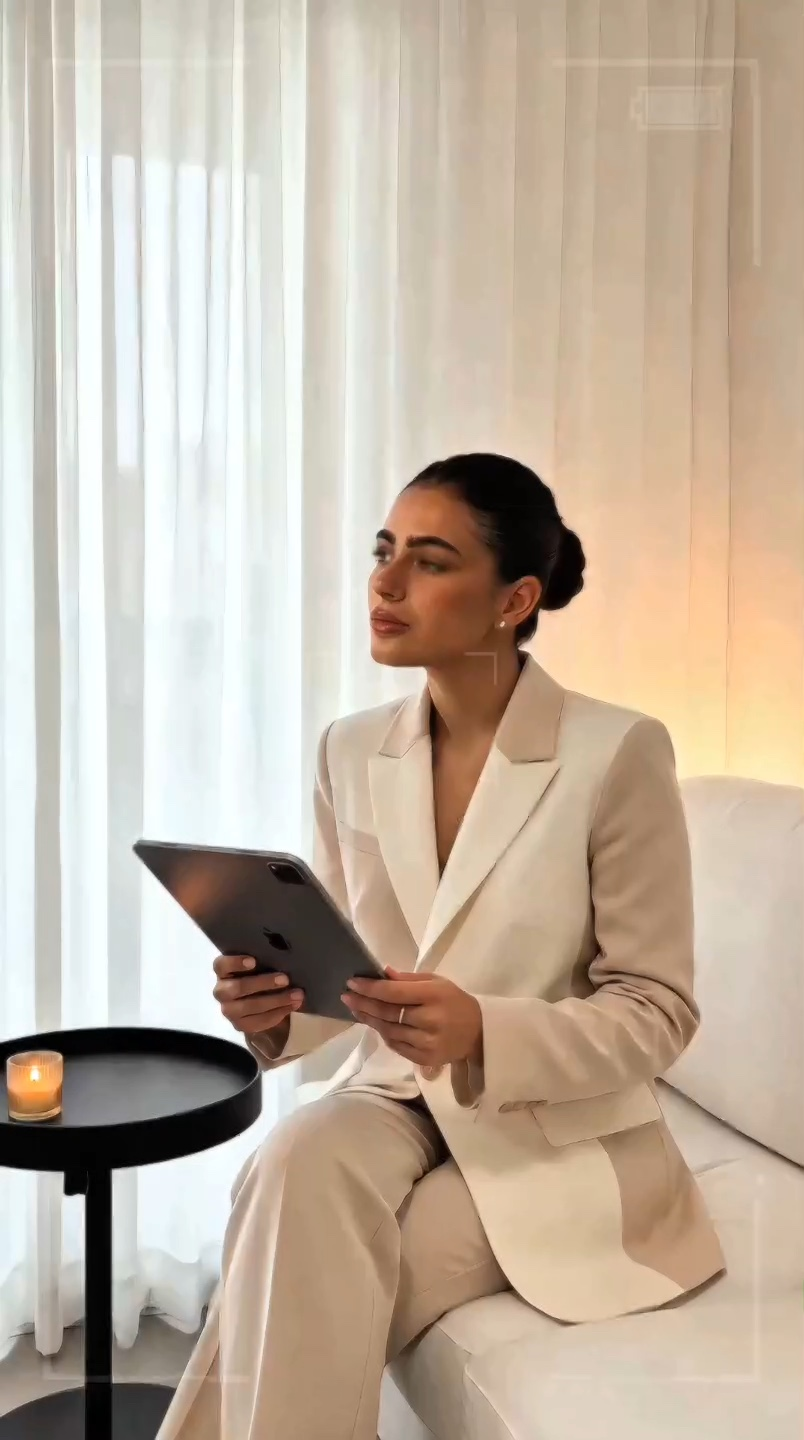
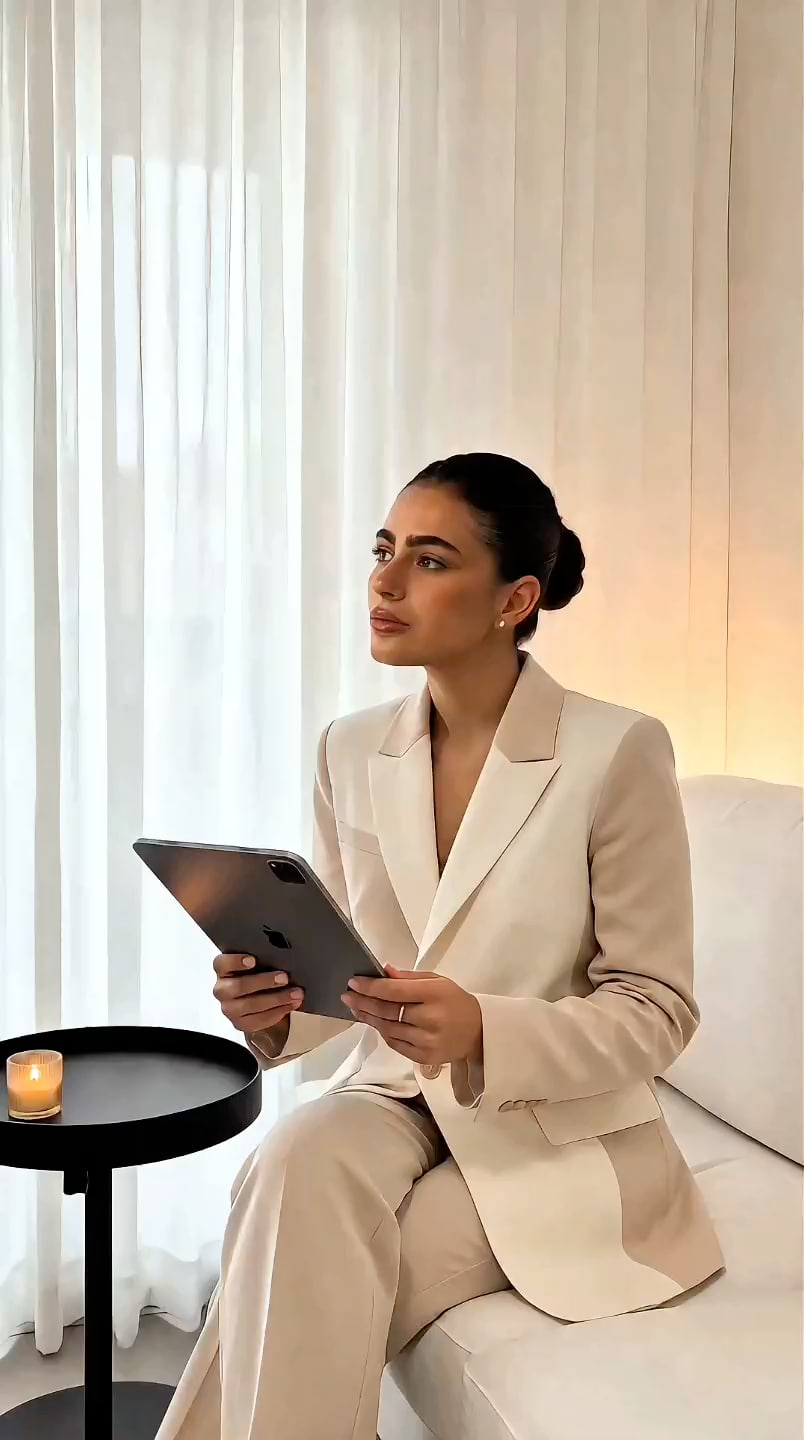
videos: use each clip's own first frame as its poster
Both homepage videos were showing a still that had nothing to do with the
clip behind it. The microblading teaser's poster was a different woman in
a different room; the treatments stage used ND_POSTER, which resolves to
natural-10.webp — a gallery photo from lib/data.ts. Pressing play swapped
the picture for an unrelated one, which is exactly what it looked like.

Each poster is now extracted from its own video at t=0 via
AVAssetImageGenerator (zero seek tolerance, preferred transform applied),
so the still and the first painted frame are the same image and the press
moves nothing. Verified in the browser by drawing poster and decoded
frame into canvases and diffing: teaser 8.9 against frame 0 vs 64.0
against a control frame, natural-design 9.0 vs 88.3, with poster
dimensions matching video dimensions exactly. The residual is the
comparison's own downscale, not the file — measured directly, WebP q80
costs 2.0 and 1.5 mean channel error against the source frame, so the
quality bump to q88 would have bought nothing for +11KB and +17KB.

⚠ New paths rather than overwriting tizer-1-poster.webp in place. The
first attempt replaced those bytes and the browser kept serving the old
540x960 file from cache — which is precisely what returning visitors and
the CDN would have done after deploy. Both posters now sit under
/videos/ next to the clips they belong to, and the stale root-level file
is deleted (it had no other reference).
[…]

diff --git a/components/home/ServicesPreview.tsx b/components/home/ServicesPreview.tsx
@@ -18,6 +18,14 @@ const MB_CONSULT = `${WHATSAPP_BASE}?text=${encodeURIComponent('היי שובל 
 const ND_VIDEO_SRC = '/videos/natural-brow-design-home.mp4'
 const ND_POSTER    = nd.homeImages?.[0] ?? nd.images[1] ?? nd.images[0]
 const ND_IMG_POS   = nd.homeImagePositions?.[0] ?? nd.imagePositions?.[1] ?? '50% 30%'
+/*
+  ⚠ הפוסטר של הווידאו הוא הפריים הראשון של הווידאו עצמו, ולא ND_POSTER.
+  ND_POSTER הוא תמונת טיפול מ-lib/data.ts (natural-10.webp) — לקוחה אחרת,
+  בחדר אחר — כך שעד עכשיו הסקשן הציג תמונה אחת ובלחיצה קפץ לתמונה אחרת
+  לגמרי. הקובץ הזה מופק מ-0.00 שניות של הקליפ, ולכן הלחיצה לא מזיזה פיקסל.
+  אותו ND_IMG_POS חל על שניהם, כך שהחיתוך זהה.
+*/
+const ND_VIDEO_POSTER = '/videos/natural-brow-design-home-poster.webp'
 
 interface Treatment {
   id: string
@@ -316,7 +324,7 @@ export default function ServicesPreview() {
             <video
               ref={videoRef}
               src={ND_VIDEO_SRC}
-              poster={ND_POSTER}
+              poster={ND_VIDEO_POSTER}
               muted
               loop
               playsInline

diff --git a/components/home/MicrobladingTeaser.tsx b/components/home/MicrobladingTeaser.tsx
@@ -133,7 +133,7 @@ export default function MicrobladingTeaser() {
           <video
             ref={videoRef}
             src="/tizer-1.mp4"
-            poster="/tizer-1-poster.webp"
+            poster="/videos/tizer-1-poster.webp"
             muted
             loop
             playsInline
